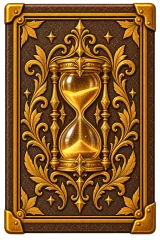
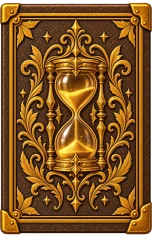
fix: close the gap between a volume's spine and its cover
The shelf showed through a sliver between each spine and the cover hinged
off it, which read as a broken book. Two causes, one per group:

Volumes 13 to 18 carried real transparent margins on their renders, up to
45px on a cover, so the artwork stopped short of its own edge. Trimmed
horizontally only, leaving the heights untouched so the shared ratios
still hold. Thumbnails regenerated; the files come out 6% lighter.

The other twelve had nothing to trim: their clasps overhang top and
bottom and set the render's width, leaving the ornamented body up to 6.7%
narrower than the image. A scaleX on the spine artwork widens the body to
the edge, and the clasps now overhang the corner the way they do on a
bound book.

diff --git a/src/aisle/shelf/ShelfVolume.scss b/src/aisle/shelf/ShelfVolume.scss
@@ -89,6 +89,15 @@
   &__face--spine {
     left: 0;
     width: 100%;
+
+    // Los herrajes de arriba y abajo sobresalen del cuerpo del lomo, y son ELLOS los que
+    // marcan el ancho del render: el cuerpo ornamentado se queda hasta un 6,7 % corto. Sin
+    // este ensanchado la tapa nace donde acaba la imagen y no donde acaba el dibujo, y por
+    // esa franja se ve la estantería. Los herrajes asoman un poco de la arista, que es lo
+    // que hacen en un libro encuadernado.
+    img {
+      transform: scaleX(1.072);
+    }
   }
 
   // Las dos tapas cuelgan de las aristas del lomo. Su ancho sale de las dos proporciones, así
